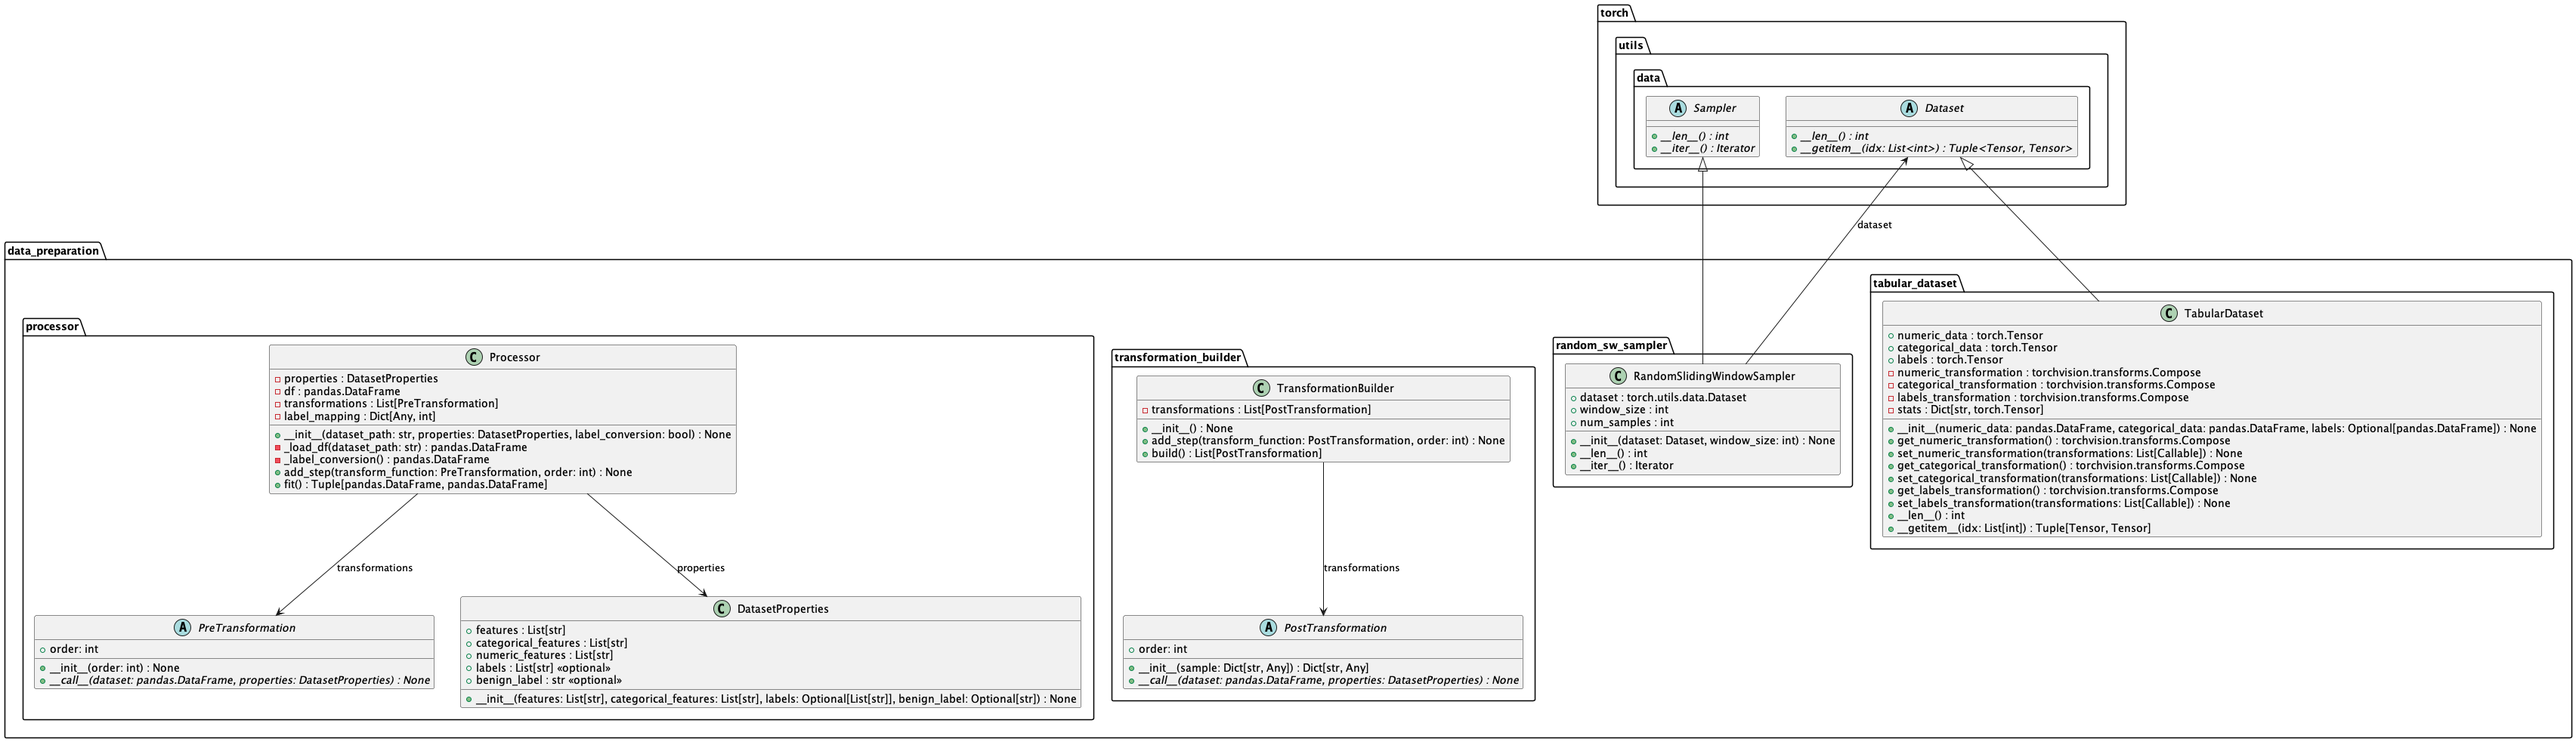
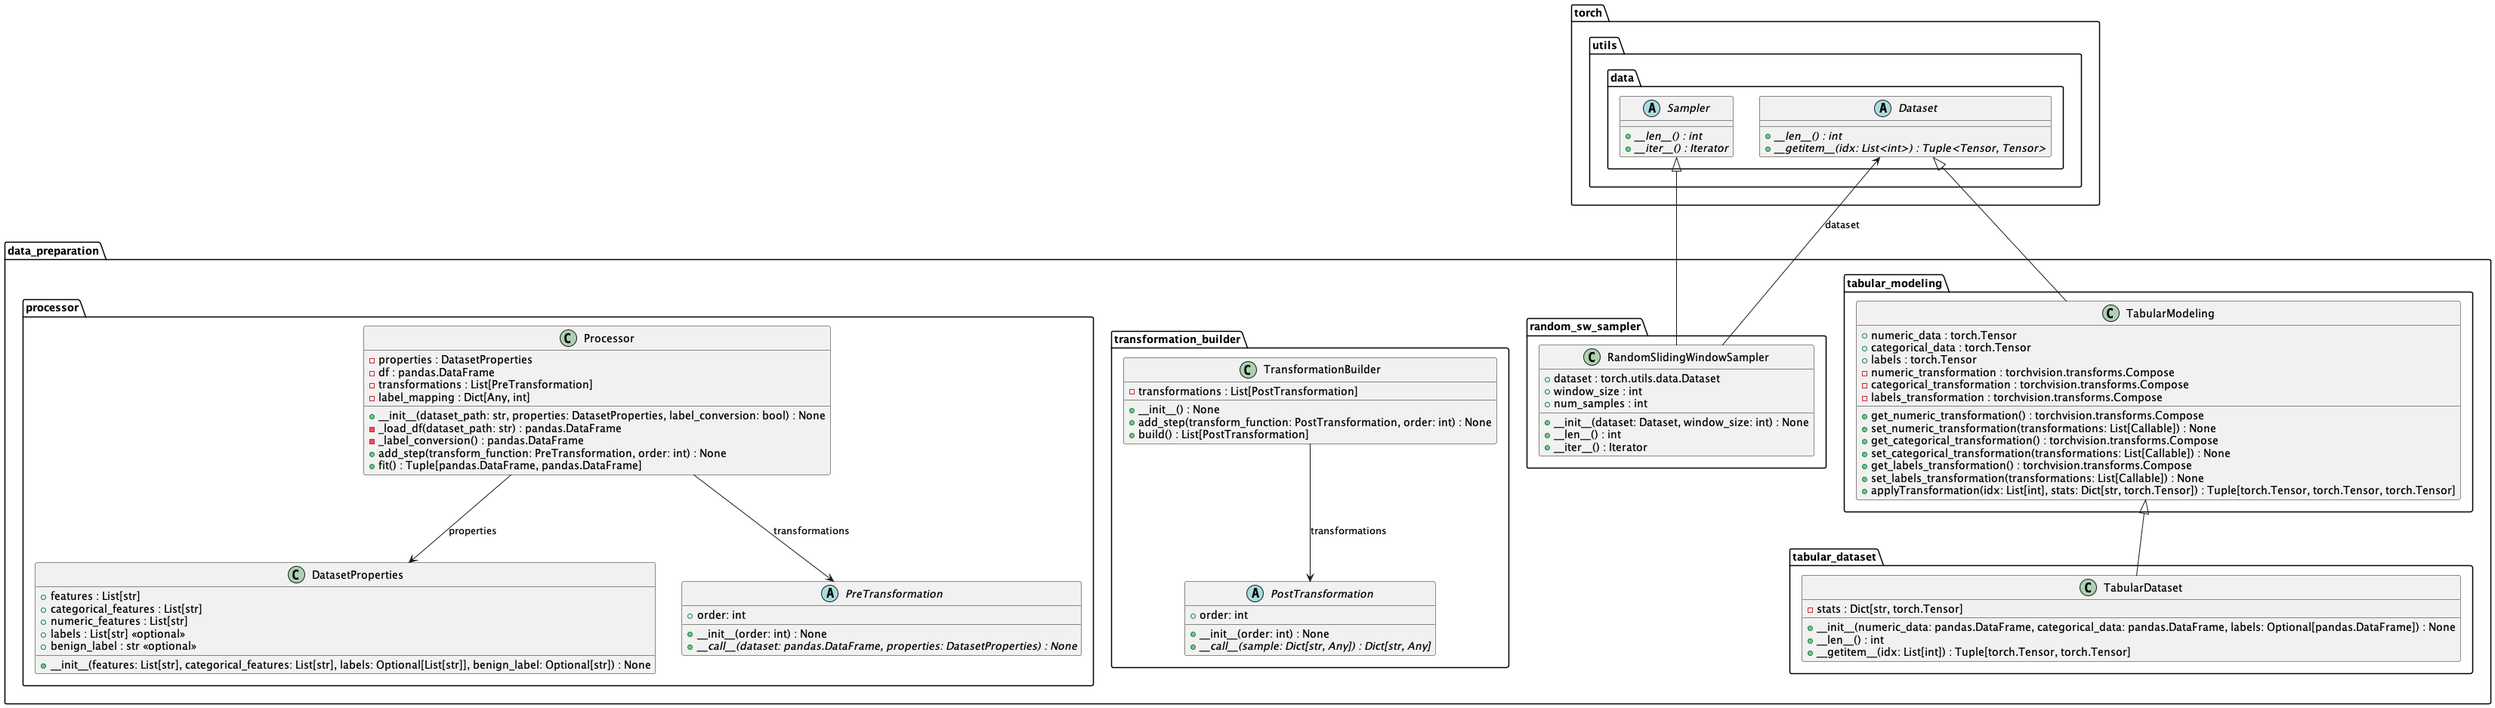
data_preparation diagram update.

diff --git a/src/NIDS_Framework/data_preparation/tabular_modeling.py b/src/NIDS_Framework/data_preparation/tabular_modeling.py
@@ -15,7 +15,6 @@ class TabularModeling(ABC, Dataset):
         "_numeric_transformation",
         "_categorical_transformation",
         "_labels_transformation",
-        "_stats",
     ]
 
     def __init__(
@@ -76,21 +75,21 @@ class TabularModeling(ABC, Dataset):
     ]:
         numeric_sample = {
             "data": self.numeric_data[idx, :],
-            "stats": self._stats,
+            "stats": stats,
         }
         if self._numeric_transformation:
             numeric_sample = self._numeric_transformation(numeric_sample)
 
         categorical_sample = {
             "data": self.categorical_data[idx, :],
-            "stats": self._stats,
+            "stats": stats,
         }
         if self._categorical_transformation:
             categorical_sample = self._categorical_transformation(categorical_sample)
 
         label_sample = {
             "data": self.labels[idx],
-            "stats": self._stats,
+            "stats": stats,
         }
         if self._labels_transformation:
             label_sample = self._labels_transformation(label_sample)
